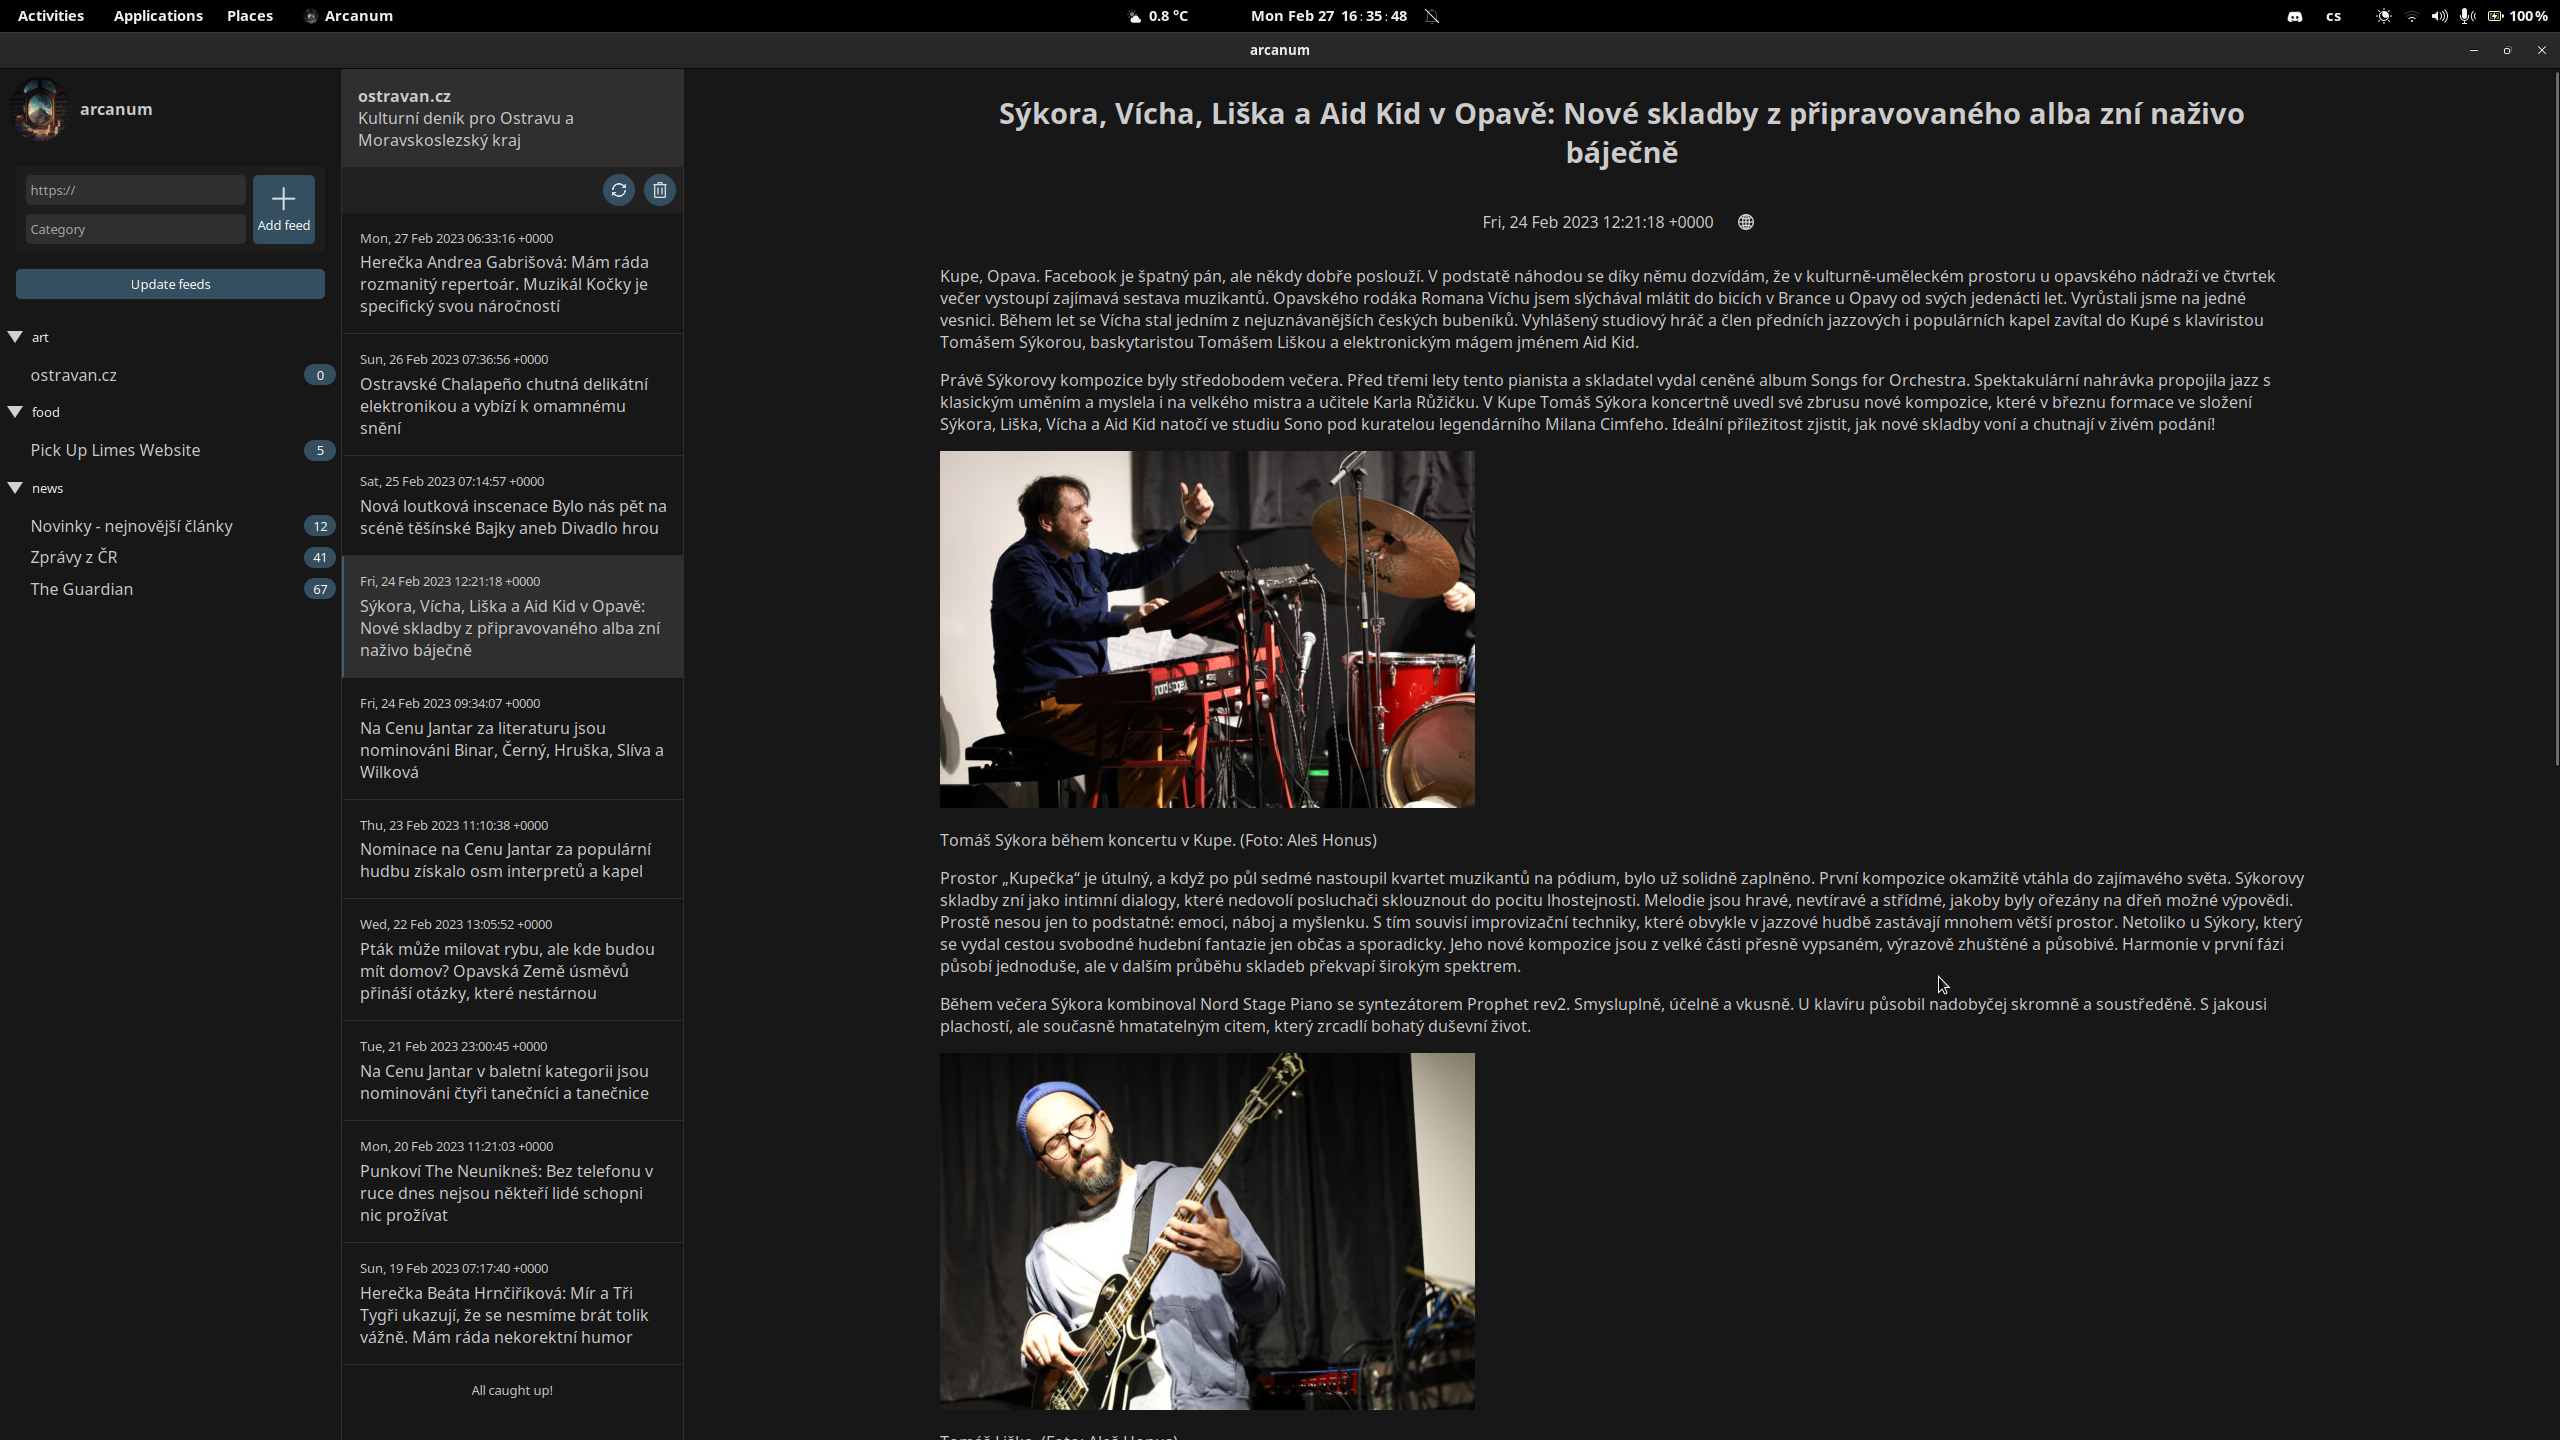
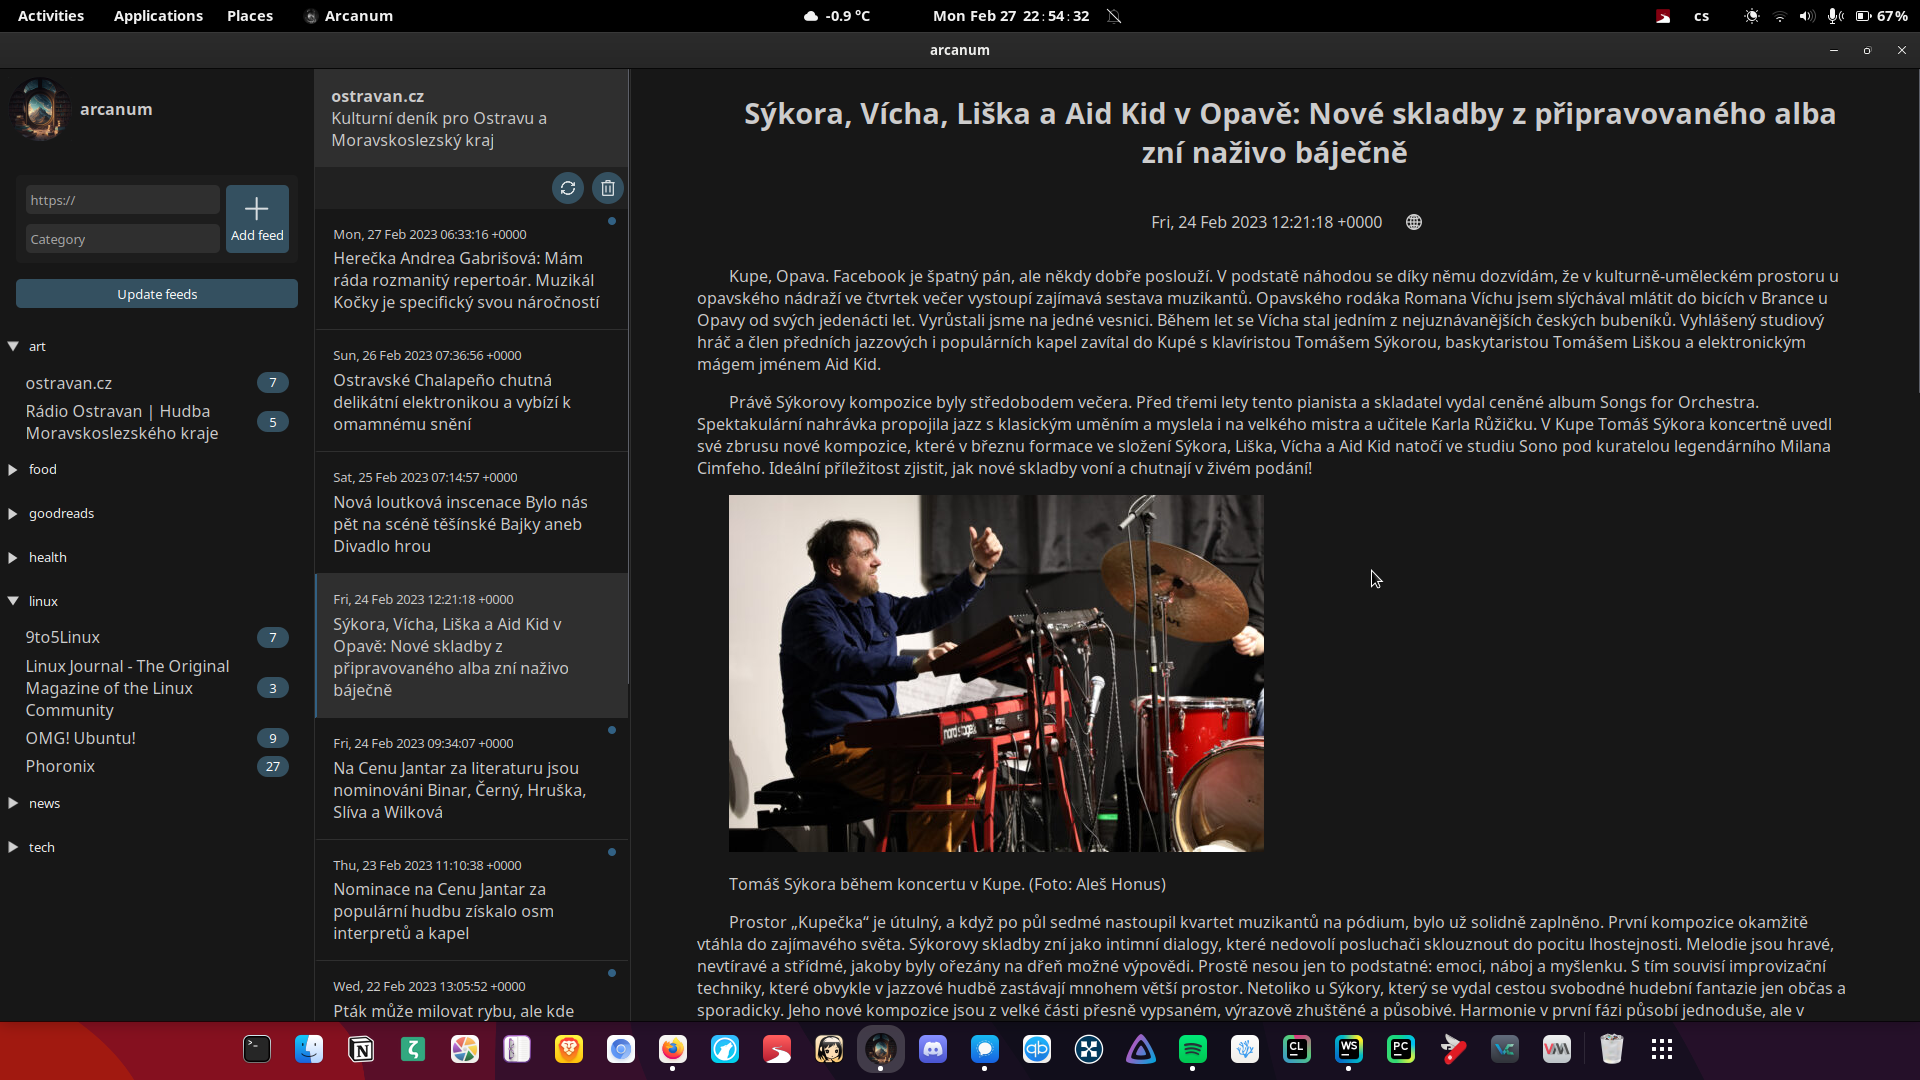
small visual tweaks matter

Changed region(s): [[0.0, 0.0, 1.0, 1.0], [0.0, 0.0611, 0.3125, 0.7944], [0.2812, 0.1528, 0.3438, 0.1833]]

diff --git a/src/style.sass b/src/style.sass
@@ -87,10 +87,11 @@ div.layout
       display: flex
       flex-direction: row
       align-items: center
+      padding: 0.2rem 1.6rem
+
       p
         font-size: 1rem
         margin: 0
-        padding: 0 0 0 1.6rem
         flex: 1
       span.count
         width: 2rem
@@ -191,6 +192,12 @@ div.layout
       margin: auto
       display: block
       text-indent: 2rem
+      p
+        img
+          height: auto
+          max-width: 90%
+          margin: 2rem auto
+          display: block
 
     h2.title
       text-align: center
@@ -215,12 +222,7 @@ div.layout
           width: 1rem
           height: 1rem
           filter: opacity(0.8)
-    p
-      img
-        height: auto
-        max-width: 90%
-        margin: 2rem auto
-        display: block
+
 
 /* width */
 ::-webkit-scrollbar
